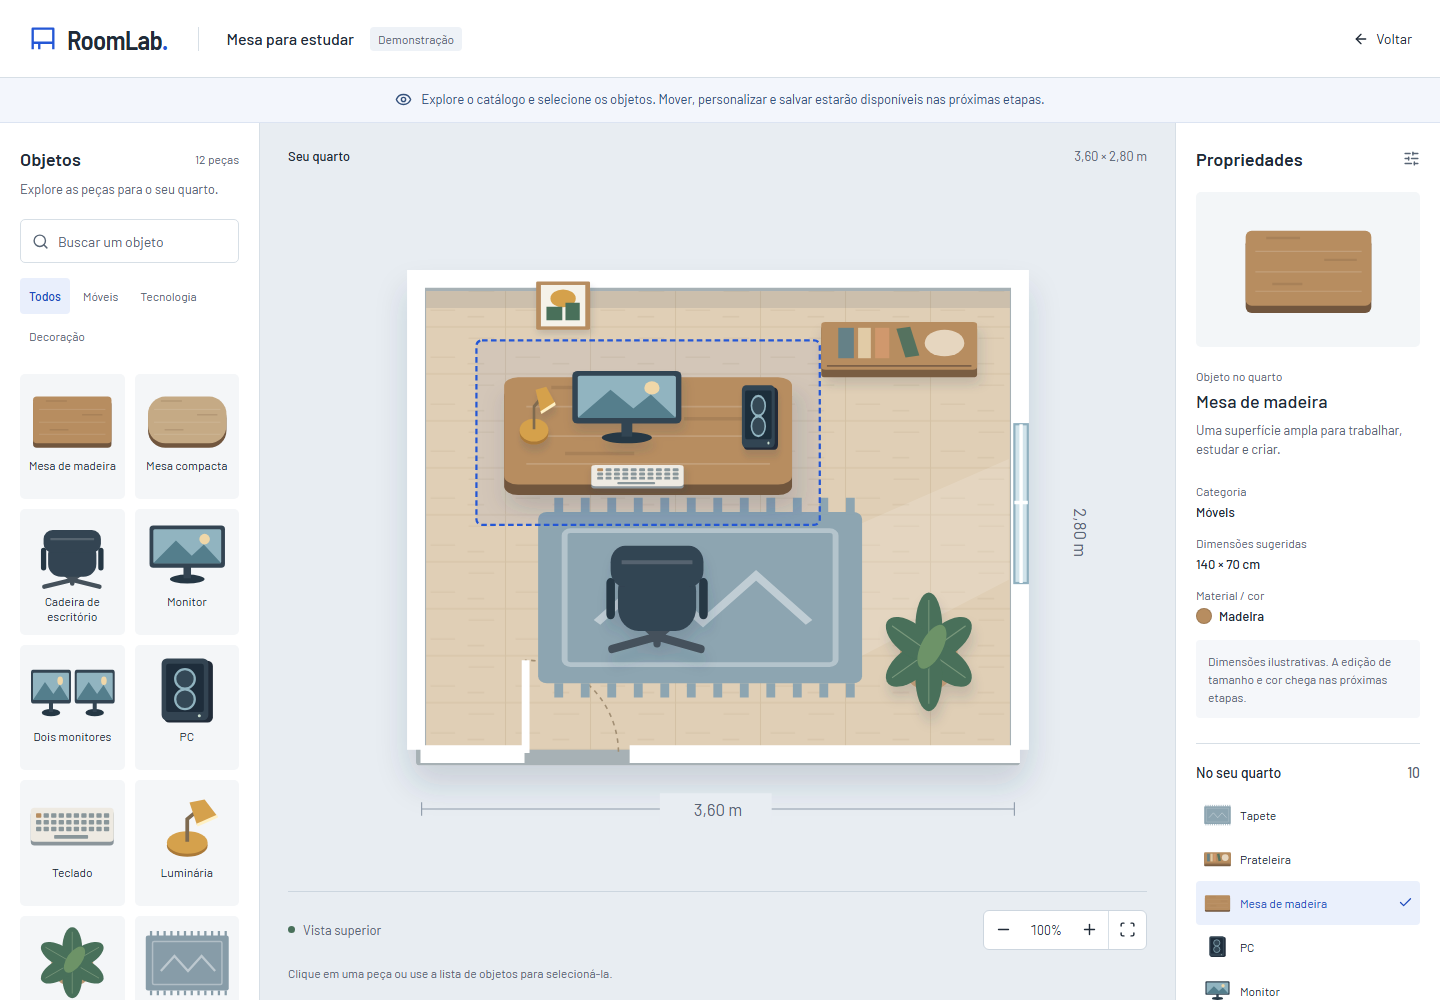
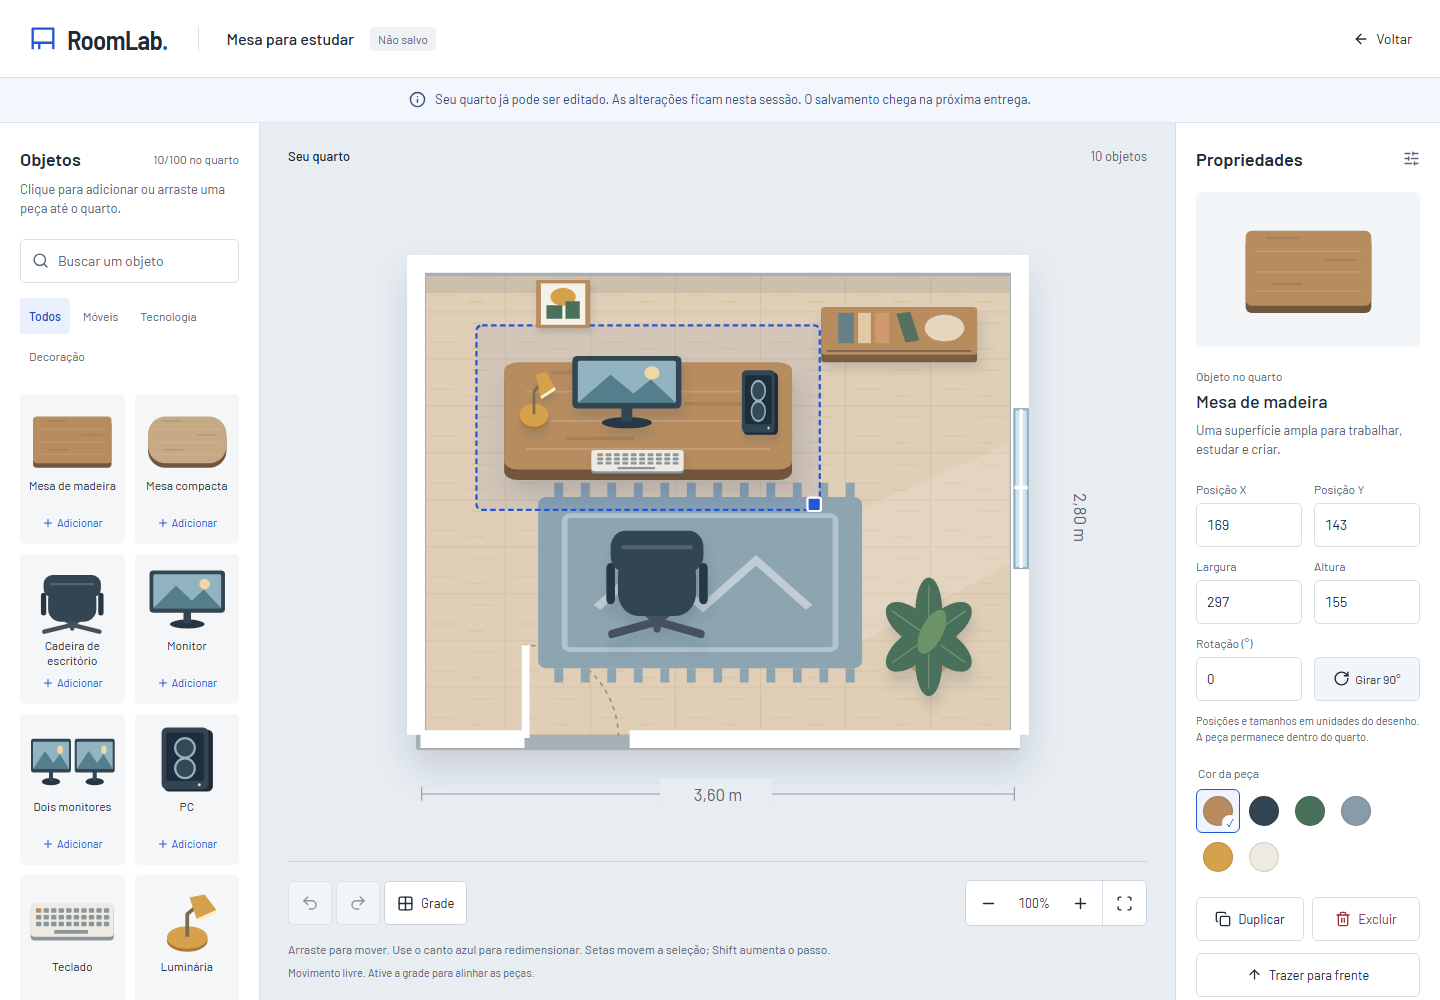
docs: explain second delivery geometry and state history

diff --git a/docs/ENTREGA-02.md b/docs/ENTREGA-02.md
@@ -1,0 +1,96 @@
+# Segunda entrega: editor funcional
+
+## O que foi entregue
+
+Adicionar peças por clique/toque ou arrasto do catálogo no desktop; selecionar; mover; girar; redimensionar; trocar cores; duplicar; excluir; ordenar camadas; alinhar movimento à grade; ajustar zoom; desfazer e refazer. As peças respeitam os limites do quarto, inclusive depois de girar.
+
+O estado fica em memória. Sair do editor ou recarregar descarta as edições. Não existe indicador de salvamento concluído ou botão de compartilhamento nesta etapa.
+
+![Editor com controles de transformação](screenshots/editor-desktop.png)
+
+## Como experimentar
+
+1. Abra `/editor?scene=empty` e adicione uma mesa.
+2. Use o catálogo para acrescentar monitor, cadeira e planta.
+3. Arraste uma peça pelo quarto. Solte fora da área para conferir que ela permanece dentro dos limites e o gesto termina normalmente.
+4. Mude a rotação pelos controles e use o canto azul ou os campos de largura/altura para redimensionar.
+5. Troque a cor, duplique uma peça e teste a ordem das camadas.
+6. Desfaça e refaça. Cada arrasto completo ocupa apenas uma ação no histórico.
+7. Ative a grade, mova uma peça e aumente o zoom. Zoom e grade não entram no histórico do quarto.
+8. No celular, toque no catálogo para adicionar e mova as peças diretamente com o dedo. Os campos são uma alternativa às alças pequenas do desenho.
+
+## Atalhos
+
+| Ação | Atalho |
+| --- | --- |
+| Mover seleção | Setas; Shift aumenta o passo de 2 para 10 unidades |
+| Duplicar | Ctrl/Cmd + D |
+| Excluir | Delete ou Backspace |
+| Desfazer | Ctrl/Cmd + Z |
+| Refazer | Ctrl/Cmd + Shift + Z ou Ctrl/Cmd + Y |
+| Cancelar arrasto | Escape enquanto o gesto está ativo |
+| Limpar seleção | Escape fora de um gesto |
+| Confirmar um campo | Enter ou sair do campo |
+| Cancelar edição de campo | Escape |
+
+Atalhos do editor não interferem com campos de texto/número. A seleção também funciona pela lista de objetos, sem exigir apontar para o SVG.
+
+## O que aprender
+
+### Documento e estado de interface
+
+`useRoomEditor.ts` conecta os controles ao modelo. O array de objetos representa o quarto. Busca, aba aberta, zoom e seleção são estados separados porque não alteram a composição. Esta é a base para salvar somente o documento na próxima entrega.
+
+### Reducer e histórico
+
+`editorModel.ts` recebe ações e devolve um novo estado sem alterar os arrays anteriores. `past` contém até 50 versões anteriores; `future` permite refazer. Uma edição nova limpa o futuro. A cena admite até 100 objetos.
+
+Um gesto tem três fases: `begin` guarda o ponto de partida, `preview` atualiza o desenho e `end` registra uma mudança no histórico. `cancel` restaura o início. Um clique sem movimento não cria uma ação vazia.
+
+Exercício: siga uma duplicação pelo código e explique por que ela deve limpar o histórico de refazer depois de um desfazer.
+
+### Ponteiro e zoom
+
+`RoomScene.tsx` converte as coordenadas da tela para o espaço do SVG usando a inversa de `getScreenCTM()`. Assim, mover 40 unidades continua sendo mover 40 unidades quando o zoom muda. O ponteiro é capturado na própria peça para continuar recebendo eventos quando sai da área.
+
+Referências consultadas: [conversão de coordenadas SVG](https://developer.mozilla.org/en-US/docs/Web/API/SVGGraphicsElement/getScreenCTM), [captura do ponteiro](https://developer.mozilla.org/en-US/docs/Web/API/Element/setPointerCapture) e [useReducer](https://react.dev/reference/react/useReducer).
+
+### Geometria de objetos girados
+
+`geometry.ts` calcula o retângulo externo de uma peça girada a partir da largura, altura e ângulo. O centro é limitado de forma que todo esse retângulo caiba no quarto. Tamanhos mínimos e máximos variam por tipo de objeto.
+
+O redimensionamento converte o deslocamento do ponteiro para os eixos locais da peça. Isso evita tratar um objeto girado como se seus eixos ainda fossem os da tela. A grade usa a origem do quarto e intervalos de 10 unidades; ela afeta o movimento por arrasto.
+
+Exercício: gire uma mesa em 45°, leve-a até uma parede e compare o resultado com uma mesa sem rotação. Encontre no código onde o tamanho externo muda.
+
+### Valores temporários nos campos
+
+`ObjectProperties.tsx` mantém o texto que está sendo digitado separado do valor confirmado. Enter ou blur confirma, Escape cancela, campo vazio restaura o valor anterior. Limites são aplicados no modelo; digitar um tamanho excessivo não coloca um valor inválido no documento.
+
+### Escolha do motor de desenho
+
+Foi mantido o SVG nativo. A composição já estava pronta e os testes confirmaram captura, transformações e conversão de coordenadas com zoom. Konva e Zustand não foram adicionados: `useReducer` e SVG atendem ao escopo atual. Essa decisão reduz dependências e mantém a lógica de geometria independente de um motor específico.
+
+## Correções encontradas na validação
+
+- A mensagem da cena vazia interceptava o drop. O conteúdo informativo agora permite que os eventos alcancem o quarto; seu botão continua clicável.
+- Após um arrasto por toque, Chromium nem sempre gerava o clique da primeira aba tocada. As abas também respondem ao `pointerup` de toque, com a mesma ação idempotente. Mouse e teclado continuam usando clique.
+- Valores temporários nos campos eram restaurados incorretamente ao cancelar ou atingir um limite. A confirmação agora diferencia rascunho, valor confirmado e cancelamento.
+- Títulos públicos da aplicação passaram a usar separadores sem travessão, conforme a preferência do autor.
+
+## Verificação
+
+- Build, TypeScript, lint e formatação aprovados.
+- 6 testes unitários de geometria, tamanho, dados não finitos, histórico e limite da cena.
+- 30 testes Playwright aprovados em Chromium, com perfis desktop, tablet e mobile.
+- 6 combinações de perfil não aplicáveis são ignoradas: testes de toque rodam no perfil mobile e drop HTML do catálogo no desktop.
+- Validados movimento com zoom, gesto único no histórico, Escape, resize, cor, exclusão, camadas, grade, toque após arrasto e uma cena com 20 objetos.
+- Capturas de desktop e celular revisadas; layout estreito em 320 px segue sem rolagem horizontal nos testes.
+
+Não há declaração de desempenho em fps. Uma cena de 20 objetos foi usada para verificar o fluxo, sem benchmark. Safari, Firefox e aparelhos físicos ainda precisam de validação própria.
+
+## Limitações atuais e próximo passo
+
+As peças são ilustrações 2D, não volumes 3D ou medidas arquitetônicas calibradas. Podem se sobrepor; o usuário controla a ordem das camadas. Mover a mesa não move automaticamente o monitor ou teclado. Quadros e prateleiras não possuem ancoragem física às paredes nesta versão. Zoom vai de 80% a 130%, sem navegação por pan ou gesto de pinça.
+
+A próxima entrega é persistência local: nomear, salvar automaticamente, reabrir, listar configurações e exportar. O compartilhamento público permanece como uma etapa posterior.

diff --git a/README.md b/README.md
@@ -1,8 +1,8 @@
-# RoomLab — monte seu setup
+# RoomLab: monte seu setup
 
 Projeto de portfólio front-end: um editor visual para montar e personalizar um quarto com um setup de trabalho ou jogos.
 
-Status: primeira entrega implementada — home e protótipo visual do editor. Desenvolvimento em `feat/app-foundation`.
+Status: segunda entrega implementada, com editor funcional. Desenvolvimento em `feat/room-editor`.
 
 ![Home do RoomLab](docs/screenshots/home-desktop.png)
 
@@ -12,9 +12,12 @@ Status: primeira entrega implementada — home e protótipo visual do editor. De
 - Três quartos demonstrativos e uma cena vazia.
 - Catálogo de 12 peças, busca com ou sem acento e filtros por categoria.
 - Seleção pela cena ou lista, detalhes dos objetos e zoom.
+- Adicionar por clique/toque ou arrasto do catálogo no desktop.
+- Mover com mouse/toque ou teclado, girar, redimensionar e trocar cores.
+- Duplicar, excluir, ordenar camadas, alinhar à grade e desfazer/refazer.
 - Layout de três áreas no desktop e painéis alternáveis no mobile.
 
-O editor é uma demonstração. Adicionar/mover objetos, personalizar, desfazer/refazer, persistir e compartilhar ainda não estão disponíveis. As dimensões são ilustrativas.
+As alterações ficam em memória nesta sessão. Recarregar ou sair do editor descarta a edição. Salvar, exportar e compartilhar serão as próximas entregas. As dimensões do quarto são ilustrativas; posições e tamanhos dos objetos usam unidades do desenho.
 
 ## Rodar localmente
 
@@ -34,6 +37,7 @@ npm run lint
 npm run typecheck
 npm run build
 npm run format:check
+npm run test:unit
 npx playwright install chromium
 npm run test:e2e -- --workers=2
 ```
@@ -54,10 +58,11 @@ Demonstrar interfaces responsivas, manipulação gráfica, estado complexo, aces
 - [Referências e direção visual](docs/REFERENCIAS.md)
 - [Fluxo de desenvolvimento e aprendizado](docs/DESENVOLVIMENTO.md)
 - [Primeira entrega: decisões, verificação e guia de aprendizado](docs/ENTREGA-01.md)
+- [Segunda entrega: geometria, interações e histórico](docs/ENTREGA-02.md)
 - [Créditos dos assets](docs/CREDITOS.md)
 
 ## Versionamento
 
-A `main` recebe entregas revisadas. Planejamento e implementação acontecem em branches específicas. A proteção automática da `main` será configurada quando houver um repositório no GitHub.
+A `main` recebe entregas revisadas. Planejamento e implementação acontecem em branches específicas. A proteção automática da `main` ainda não foi configurada no GitHub.
 
 Repositório: [samuelsce/RoomLab](https://github.com/samuelsce/RoomLab). Ainda não há uma demo hospedada ou domínio contratado. Para hospedar esta SPA, configurar fallback das rotas para `index.html`.

diff --git a/docs/DESENVOLVIMENTO.md b/docs/DESENVOLVIMENTO.md
@@ -4,6 +4,8 @@
 
 Antes de cada etapa, explicar em português o resultado esperado, os arquivos envolvidos e a decisão técnica principal. Durante o trabalho, comunicar descobertas e mudanças relevantes. Ao terminar, mostrar o que mudou, como experimentar, como foi verificado e quais commits foram criados.
 
+Evitar travessões nas explicações, documentação nova e textos da interface, conforme preferência do autor.
+
 Não transformar a entrega em uma aula sobre cada linha: concentrar explicações nos conceitos que permitem ao autor do portfólio entender, modificar e defender o projeto em entrevista.
 
 ## Branches e commits
@@ -42,4 +44,4 @@ Os exercícios acompanham entregas concretas, sem bloquear o desenvolvimento. Re
 
 ## Situação desta entrega
 
-Planejamento e primeira entrega documentados. A fundação React, home, protótipo visual e testes de fluxo estão implementados em `feat/app-foundation`; detalhes em [ENTREGA-01.md](ENTREGA-01.md). CI, hospedagem, manipulação e persistência ainda não foram implementados. A skill `frontend-design` foi aplicada ao planejamento e à revisão por screenshots desta entrega.
+Planejamento e duas entregas documentados. A fundação está em `feat/app-foundation` e o editor funcional em `feat/room-editor`; detalhes em [ENTREGA-01.md](ENTREGA-01.md) e [ENTREGA-02.md](ENTREGA-02.md). Persistência, compartilhamento, CI e hospedagem permanecem como próximas etapas. A direção da skill `frontend-design` foi mantida e revisada por screenshots.

diff --git a/docs/PLANO.md b/docs/PLANO.md
@@ -86,4 +86,6 @@ Antes de declarar desempenho, medir com uma cena de 50 objetos e registrar dispo
 
 A primeira entrega foi implementada em `feat/app-foundation`, com home, estrutura do editor, composições e catálogo. Ver [ENTREGA-01.md](ENTREGA-01.md). A validação visual foi feita por screenshots; a avaliação do autor do projeto pode orientar ajustes antes da próxima etapa.
 
-Próximo passo: `feat/room-editor`, com inclusão e movimento de objetos e conversão de coordenadas. A representação atual é ilustrada em 2D e pode ser revisada antes da manipulação completa.
+A segunda entrega está implementada em `feat/room-editor`, com adição, manipulação, cores, camadas e histórico. Foram mantidos SVG nativo e `useReducer`, conforme a decisão e as limitações em [ENTREGA-02.md](ENTREGA-02.md).
+
+Próximo passo: `feat/local-setups`, com persistência local, nomes, biblioteca de salvos e exportação. Links públicos serão implementados depois dessa etapa.
